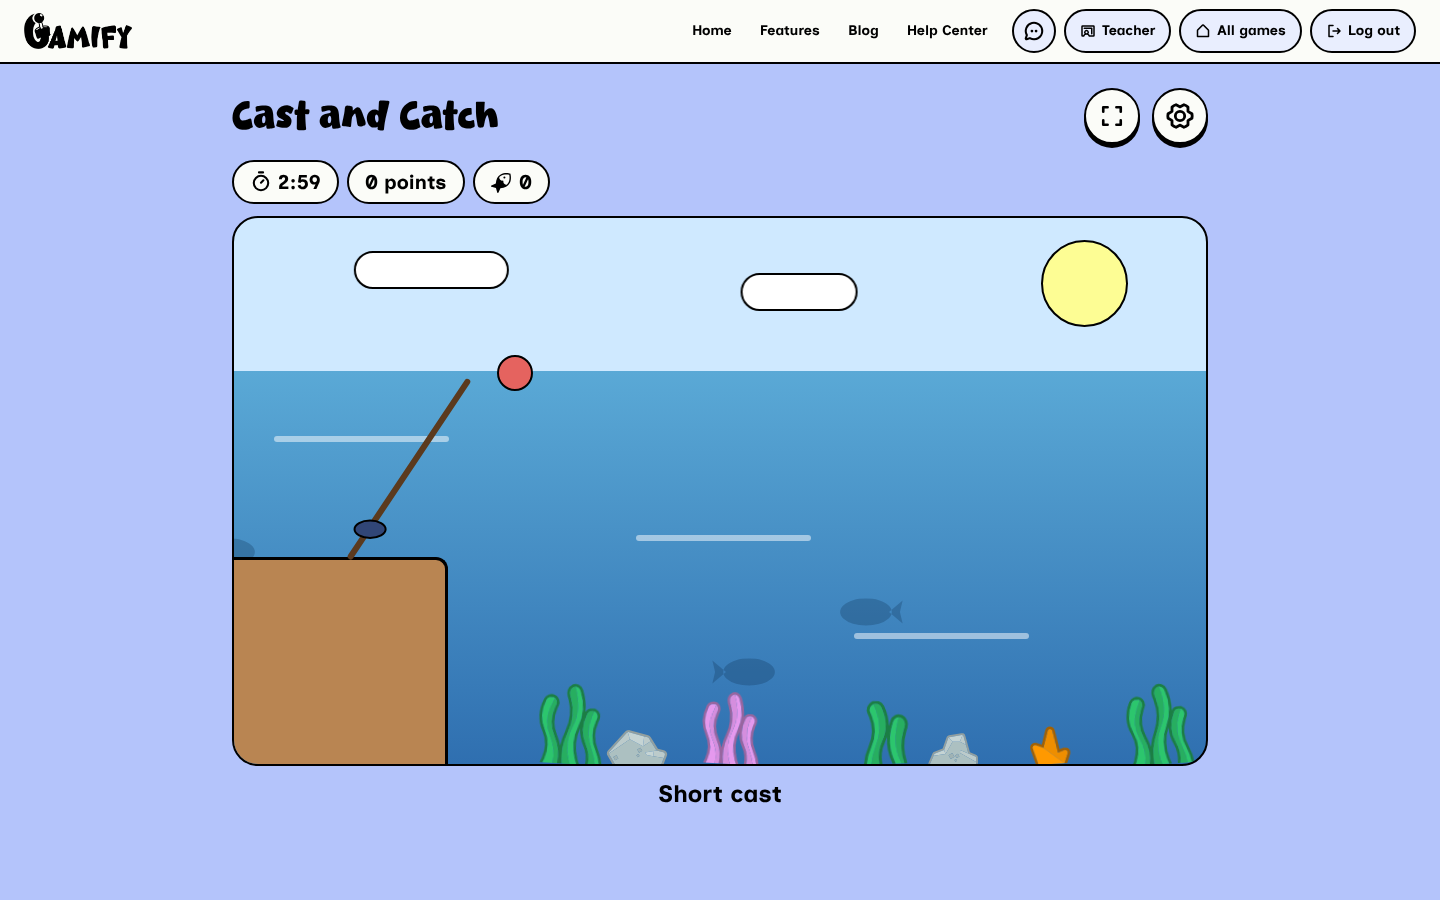
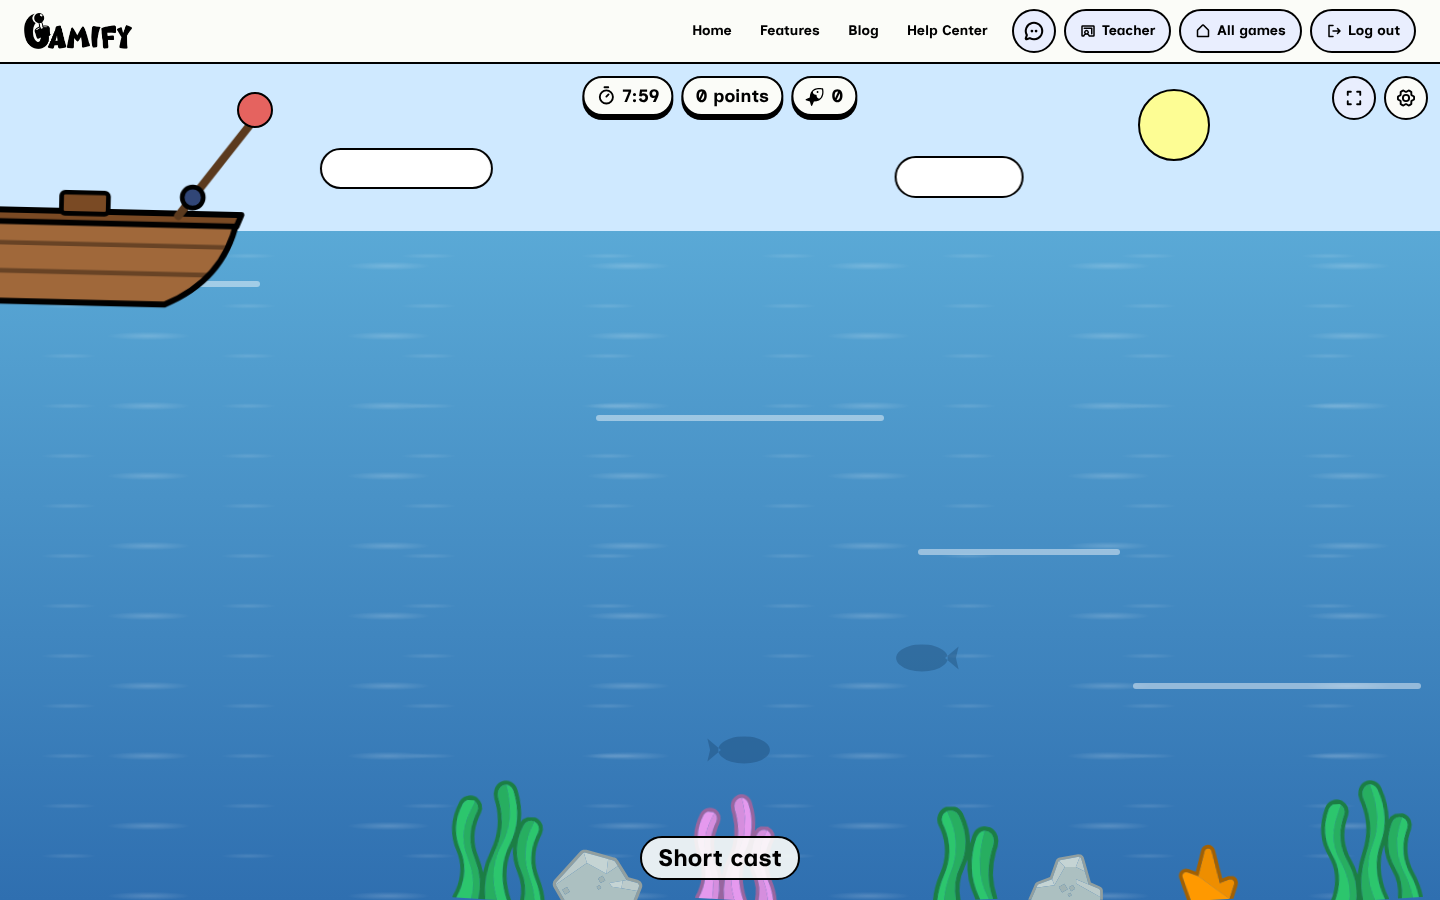
Cast and Catch fills the whole space under the menu bar (and the whole screen in full screen) with small controls on top of the scene; roomier setup boxes; fishing time 1 to 20 minutes, default 8
Claude-Session: https://claude.ai/code/session_01APER8wtnDZSnzGLifX9o6w

diff --git a/src/games/cast-catch/CastCatch.tsx b/src/games/cast-catch/CastCatch.tsx
@@ -1,4 +1,3 @@
-import Title from '../../ui/Title';
 import { useEffect, useMemo, useRef, useState } from 'react';
 import { AnimatePresence, motion } from 'motion/react';
 import confetti from 'canvas-confetti';
@@ -11,7 +10,7 @@ import { getLive } from '../../live/session';
 import { usePlayClock } from '../../engine/playClock';
 import { useAsk } from '../../engine/useAsk';
 import { t } from '../../i18n';
-import { GameTopRow, SettingsPanel } from '../../settings/SettingsPanel';
+import { FullScreenButton, GameTopRow, GearButton, SettingsPanel } from '../../settings/SettingsPanel';
 import { useSettings } from '../../settings/SettingsContext';
 import { useGamePool } from '../../student/session';
 import { pieceColor, pieceFill, pieceImage } from '../../theme/library';
@@ -78,7 +77,7 @@ export default function CastCatch() {
   async function openLive() { navigate(`/teacher/live/${(await makeGameCode('cast-catch', setId, 'live')).code}`); }
   const { value: mine = [] } = useMySets();
   const sets = useMemo(() => [...mine, ...LIBRARY], [mine]);
-  const [setup, change] = useSavedSetup('cast-catch', { setId: LIBRARY[0].id, minutes: 3 });
+  const [setup, change] = useSavedSetup('cast-catch', { setId: LIBRARY[0].id, minutes: 8 });
   const setId = sets.some((s) => s.id === setup.setId) ? setup.setId : LIBRARY[0].id;
   const picked = useMemo(() => sets.filter((s) => s.id === setId).map((set) => ({ set, starred: false })), [sets, setId]);
   const game = useGamePool(picked);
@@ -203,12 +202,12 @@ export default function CastCatch() {
 
   return (
     <ThemedPage theme={theme} menu={phase !== 'play' && phase !== 'end'}>
-    <main className="max-w-5xl mx-auto px-4 sm:px-6 pt-6 pb-6">
+    <main className={(phase === 'play' || phase === 'end') ? '!p-0' : 'max-w-5xl mx-auto px-4 sm:px-6 pt-6 pb-6'}>
       <SettingsPanel open={settingsOpen} onClose={() => setSettingsOpen(false)} context="cast-catch" />
       {clock.element}
-      <GameTopRow onSettings={() => setSettingsOpen(true)}>
-        {(phase === 'play' || phase === 'end') && <h1 className="title-bubble text-3xl sm:text-4xl"><Title text={castCatchManifest.name} /></h1>}
-      </GameTopRow>
+      {(phase === 'play' || phase === 'end')
+        ? <h1 className="sr-only">{castCatchManifest.name}</h1>
+        : <GameTopRow onSettings={() => setSettingsOpen(true)} />}
 
       {phase === 'welcome' && (
         <GameWelcome game={castCatchManifest} cover={pieceImage(theme, 'cover')} onStart={() => setPhase(themes.length > 1 ? 'theme' : 'setup')} steps={[
@@ -223,26 +222,22 @@ export default function CastCatch() {
           // Pick the way to play first (teacher, 2026-10-31): Live opens a class lobby.
           ...(!teacher ? [] : [{ id: 'way', title: t('way.title'), content: <WayToPlay modes={['live', 'solo']} value={way} onChange={setWay} /> }]),
           ...(game.assigned ? [] : [{ id: 'questions', title: t('setup.questions'), content: <SetPicker sets={sets} value={[setId]} onChange={(ids) => change({ setId: ids[0] })} /> }]),
-          { id: 'options', title: t('setup.options'), content: <Slider label={t('cc.minutes')} hint={t('cc.minutesHint')} min={1} max={10} value={setup.minutes} show={(v) => t('cc.minutesValue', { count: v })} onChange={(v) => change({ minutes: v })} /> },
+          { id: 'options', title: t('setup.options'), content: <Slider label={t('cc.minutes')} hint={t('cc.minutesHint')} min={1} max={20} value={setup.minutes} show={(v) => t('cc.minutesValue', { count: v })} onChange={(v) => change({ minutes: v })} /> },
         ]} />
       )}
 
       {(phase === 'play' || phase === 'end') && (
-        <section className="grid gap-3">
-          <div className="flex items-center gap-2 flex-wrap">
-            <span className="inline-flex items-center gap-1.5 bg-surface border-[2.5px] border-border rounded-pill px-4 min-h-11 font-display text-xl tabular-nums" aria-label={t('cc.timeLeft', { s: left })}><Timer weight="bold" size={22} />{Math.floor(left / 60)}:{String(left % 60).padStart(2, '0')}</span>
-            <span className="inline-flex items-center gap-1.5 bg-surface border-[2.5px] border-border rounded-pill px-4 min-h-11 font-display text-xl tabular-nums" aria-label={t('cc.points', { count: score })}>{score} {t('cc.pts')}</span>
-            <span className="inline-flex items-center gap-1.5 bg-surface border-[2.5px] border-border rounded-pill px-4 min-h-11 font-display text-xl" aria-label={t('cc.caught', { count: catches.length })}><FishIcon weight="fill" size={22} />{catches.length}</span>
-          </div>
-
-          <div ref={scene} className="relative overflow-hidden rounded-panel border-[2.5px] border-border select-none" style={{ height: 'calc(100dvh - 21.875rem + var(--chrome-save, 0rem))', minHeight: 220, ...(theme.pieces.background?.image ? pieceFill(theme, 'background', '#5aa9d6') : { background: 'linear-gradient(180deg, #cfe9ff 0%, #cfe9ff 20%, #5aa9d6 20%, #2f6fb0 100%)' }) }}>
+        // The game fills the whole space, the same in full screen and not;
+        // small controls sit on top of the scene (teacher, 2026-10-31).
+        <section className="relative play-fill">
+          <div ref={scene} className="relative overflow-hidden select-none h-full" style={{ ...(theme.pieces.background?.image ? pieceFill(theme, 'background', '#5aa9d6') : { background: 'linear-gradient(180deg, #cfe9ff 0%, #cfe9ff 20%, #5aa9d6 20%, #2f6fb0 100%)' }) }}>
             {/* The water moves a little (teacher, 2026-10-31): soft ripples drift and the shimmer lines glide. */}
             {!theme.pieces.background?.image && <span className="absolute inset-x-0 bottom-0 top-[20%] pointer-events-none cc-water" aria-hidden="true" />}
             {!still && [0, 1, 2, 3].map((i) => (
               <span key={i} className="absolute h-1.5 rounded-pill bg-white/45" style={{ top: `${26 + i * 16}%`, width: `${14 + (i % 2) * 6}%`, animation: `cc-swim-right ${9 + i * 3}s linear ${-i * 4}s infinite` }} aria-hidden="true" />
             ))}
-            <span className="absolute right-[8%] top-[2%] w-[6%] aspect-square rounded-full border-[2.5px] border-border" style={pieceFill(theme, 'sun', '#fdfd94')} aria-hidden="true" />
-            {[[30, 3, 14], [60, 6, 10]].map(([x, y, w], i) => (
+            <span className="absolute right-[16%] top-[3%] w-[5%] aspect-square rounded-full border-[2.5px] border-border" style={pieceFill(theme, 'sun', '#fdfd94')} aria-hidden="true" />
+            {[[22, 10, 12], [62, 11, 9]].map(([x, y, w], i) => (
               <span key={`c${i}`} className={`absolute h-[5%] ${pieceImage(theme, 'cloud') ? '' : 'rounded-pill border-[2px] border-border'}`} style={{ left: `${x}%`, top: `${y}%`, width: `${w}%`, ...(pieceImage(theme, 'cloud') ? { background: `center / contain no-repeat url("${pieceImage(theme, 'cloud')}")` } : { background: pieceColor(theme, 'cloud', '#ffffff') }), animation: still ? undefined : `cc-drift ${18 + i * 6}s ease-in-out infinite` }} aria-hidden="true" />
             ))}
             {!still && [0, 1, 2].map((i) => (
@@ -284,7 +279,7 @@ export default function CastCatch() {
             )}
             <AnimatePresence>
               {last && (
-                <motion.div key={catches.length} className="absolute inset-x-0 top-[8%] mx-auto w-[min(90%,420px)] bg-surface border-[3px] border-border rounded-panel p-4 grid gap-1 justify-items-center text-center"
+                <motion.div key={catches.length} className="absolute inset-x-0 top-[14%] mx-auto w-[min(90%,420px)] bg-surface border-[3px] border-border rounded-panel p-4 grid gap-1 justify-items-center text-center"
                   style={{ boxShadow: 'var(--shadow-sticker-lg)' }} initial={still ? false : { y: 120, scale: 0.6, rotate: -8 }} animate={{ y: 0, scale: 1, rotate: 0 }} exit={{ opacity: 0 }} role="status">
                   {last.item ? (
                     <>
@@ -305,8 +300,18 @@ export default function CastCatch() {
             </AnimatePresence>
           </div>
 
+          {/* Top: score chips in the middle, full screen and settings on the right. */}
+          <div className="absolute top-3 left-1/2 -translate-x-1/2 flex items-center gap-2 z-10">
+            <span className="inline-flex items-center gap-1.5 bg-surface border-[2px] border-border rounded-pill px-3 min-h-10 font-display text-lg tabular-nums" style={{ boxShadow: 'var(--shadow-sticker)' }} aria-label={t('cc.timeLeft', { s: left })}><Timer weight="bold" size={20} />{Math.floor(left / 60)}:{String(left % 60).padStart(2, '0')}</span>
+            <span className="inline-flex items-center gap-1.5 bg-surface border-[2px] border-border rounded-pill px-3 min-h-10 font-display text-lg tabular-nums" style={{ boxShadow: 'var(--shadow-sticker)' }} aria-label={t('cc.points', { count: score })}>{score} {t('cc.pts')}</span>
+            <span className="inline-flex items-center gap-1.5 bg-surface border-[2px] border-border rounded-pill px-3 min-h-10 font-display text-lg" style={{ boxShadow: 'var(--shadow-sticker)' }} aria-label={t('cc.caught', { count: catches.length })}><FishIcon weight="fill" size={20} />{catches.length}</span>
+          </div>
+          <div className="absolute top-3 right-3 flex items-center gap-2 z-10 [&_button]:!w-11 [&_button]:!h-11">
+            <FullScreenButton small />
+            <GearButton small onClick={() => setSettingsOpen(true)} />
+          </div>
           {phase === 'play' && (
-            <div className="grid gap-2 justify-items-center min-h-24">
+            <div className="absolute inset-x-0 bottom-5 grid gap-2 justify-items-center z-10 pointer-events-none [&>*]:pointer-events-auto">
               {step === 'ready' && !timeUp && <BigButton onClick={startPower} label={t('cc.cast')} />}
               {step === 'power' && (
                 <>
@@ -316,10 +321,10 @@ export default function CastCatch() {
                   <BigButton onClick={() => void stopPower()} label={t('cc.stop')} />
                 </>
               )}
-              {step === 'casting' && <p className="font-display text-2xl stage-text" role="status">{qualityWord[quality.current]}</p>}
-              {step === 'wait' && <p className="font-display text-2xl stage-text" role="status">{t('cc.waiting')}</p>}
+              {step === 'casting' && <p className="font-display text-2xl px-4 py-1 rounded-pill bg-surface/90 border-[2px] border-border" role="status">{qualityWord[quality.current]}</p>}
+              {step === 'wait' && <p className="font-display text-2xl px-4 py-1 rounded-pill bg-surface/90 border-[2px] border-border" role="status">{t('cc.waiting')}</p>}
               {step === 'bite' && <BigButton onClick={reel} label={t('cc.reel')} pulse={!still} />}
-              {timeUp && step === 'ready' && <p className="font-display text-2xl stage-text">{t('cc.timeUp')}</p>}
+              {timeUp && step === 'ready' && <p className="font-display text-2xl px-4 py-1 rounded-pill bg-surface/90 border-[2px] border-border">{t('cc.timeUp')}</p>}
             </div>
           )}
         </section>
@@ -344,7 +349,7 @@ export default function CastCatch() {
 function BigButton({ onClick, label, pulse = false }: { onClick: () => void; label: string; pulse?: boolean }) {
   return (
     <motion.button type="button" onClick={onClick} animate={pulse ? { scale: [1, 1.06, 1] } : undefined} transition={{ duration: 0.8, repeat: Infinity }}
-      className="min-h-16 px-12 rounded-pill border-[2.5px] border-border bg-accent font-display text-3xl active:scale-95" style={{ boxShadow: 'var(--shadow-sticker)' }}>
+      className="min-h-14 px-10 rounded-pill border-[2.5px] border-border bg-accent font-display text-2xl active:scale-95" style={{ boxShadow: 'var(--shadow-sticker)' }}>
       {label}
     </motion.button>
   );

diff --git a/src/games/SetupWizard.tsx b/src/games/SetupWizard.tsx
@@ -13,27 +13,29 @@ export default function SetupWizard({ pages, onBack, onPlay, playLabel }: { page
   const last = i === pages.length - 1;
   return (
     <div className="grid content-center" style={{ minHeight: 'calc(100dvh - 11.875rem)' }}>
-    <section className="bg-surface border-[2.5px] border-border rounded-panel max-w-3xl mx-auto flex flex-col overflow-hidden" style={{ boxShadow: 'var(--shadow-sticker-lg)', maxHeight: 'calc(100dvh - 11.875rem)' }}>
-      <div className="px-5 pt-4 pb-3 border-b-[2px] border-border-soft grid gap-2">
+    {/* Roomy, never cramped (teacher, 2026-10-31): full width up to a big
+        card, a generous minimum height, larger text and controls. */}
+    <section className="setup-roomy w-full bg-surface border-[2.5px] border-border rounded-panel max-w-3xl mx-auto flex flex-col overflow-hidden" style={{ boxShadow: 'var(--shadow-sticker-lg)', maxHeight: 'calc(100dvh - 11.875rem)', minHeight: 'min(30rem, calc(100dvh - 11.875rem))' }}>
+      <div className="px-6 sm:px-8 pt-5 pb-4 border-b-[2px] border-border-soft grid gap-3">
         <ol className="flex gap-1.5 list-none p-0 m-0" aria-label={t('setup.steps')}>
           {pages.map((p, k) => (
             <li key={p.id} className="flex-1">
               <button type="button" onClick={() => setI(k)} disabled={k > i && pages.slice(i, k).some((x) => x.ready === false)}
                 aria-current={k === i ? 'step' : undefined} aria-label={t('setup.stepOf', { n: k + 1, total: pages.length, title: p.title })}
-                className={`w-full h-2.5 rounded-pill border border-border ${k <= i ? 'bg-accent' : 'bg-surface-2'}`} />
+                className={`w-full h-3 rounded-pill border border-border ${k <= i ? 'bg-accent' : 'bg-surface-2'}`} />
             </li>
           ))}
         </ol>
-        <h2 className="font-display text-2xl font-bold"><Title text={t('setup.stepTitle', { n: i + 1, total: pages.length, title: page.title })} /></h2>
+        <h2 className="font-display text-3xl font-bold"><Title text={t('setup.stepTitle', { n: i + 1, total: pages.length, title: page.title })} /></h2>
       </div>
-      <div className="px-5 py-4 grid gap-4 content-start overflow-y-auto min-h-0 flex-1">{page.content}</div>
-      <div className="px-5 py-3 border-t-[2px] border-border-soft flex justify-between gap-2">
+      <div className="px-6 sm:px-8 py-6 grid gap-6 content-start overflow-y-auto min-h-0 flex-1 text-lg">{page.content}</div>
+      <div className="px-6 sm:px-8 py-4 border-t-[2px] border-border-soft flex justify-between gap-2">
         <button type="button" onClick={() => (i === 0 ? onBack() : setI(i - 1))}
-          className="min-h-12 px-5 rounded-pill border-[2px] border-border bg-surface-2 font-bold inline-flex items-center gap-2">
+          className="min-h-14 px-6 rounded-pill border-[2px] border-border bg-surface-2 font-bold text-lg inline-flex items-center gap-2">
           <ArrowLeft weight="bold" size={20} />{t('setup.back')}
         </button>
         <button type="button" disabled={page.ready === false} onClick={() => (last ? onPlay() : setI(i + 1))}
-          className="min-h-12 px-6 rounded-pill border-[2.5px] border-border bg-accent font-display text-xl font-bold inline-flex items-center gap-2 disabled:opacity-50">
+          className="min-h-14 px-8 rounded-pill border-[2.5px] border-border bg-accent font-display text-2xl font-bold inline-flex items-center gap-2 disabled:opacity-50">
           {last ? <><Play weight="fill" size={22} />{playLabel ?? t('start.play')}</> : <>{t('setup.next')}<ArrowRight weight="bold" size={20} /></>}
         </button>
       </div>

diff --git a/src/index.css b/src/index.css
@@ -349,3 +349,14 @@ html[data-motion="still"] :is(.fw-bob, .fw-hop, .fw-twinkle, .fw-flash, .fw-nudg
   --color-accent-ink: #000000;
   --stage-bg-text: var(--text);
 }
+
+/* Setup pages: bigger sliders and hint text (teacher, 2026-10-31). */
+.setup-roomy .gamify-slider { height: 18px; margin: 0.75rem 0; }
+.setup-roomy .gamify-slider::-webkit-slider-thumb { width: 44px; height: 44px; }
+.setup-roomy .gamify-slider::-moz-range-thumb { width: 42px; height: 42px; }
+.setup-roomy label { font-size: 1.125rem; }
+
+/* A game that fills the whole space under the menu bar, and the whole
+   screen in full screen: the same view either way (teacher, 2026-10-31). */
+.play-fill { height: calc(100dvh - 4rem); }
+html:fullscreen .play-fill { height: 100dvh; }

diff --git a/src/i18n/en.ts b/src/i18n/en.ts
@@ -2038,7 +2038,7 @@ export const en = {
   'cc.how2': 'Answer the question while your bobber floats.',
   'cc.how3': 'Reel in your fish. Better casts catch rarer fish!',
   'cc.minutes': 'Fishing time',
-  'cc.minutesHint': 'How long the fishing trip lasts. Default 3 minutes.',
+  'cc.minutesHint': 'How long the fishing trip lasts, 1 to 20 minutes. Default 8 minutes.',
   'cc.minutesValue': '{count} minutes',
   'cc.minutesValue.one': '1 minute',
   'cc.timeLeft': '{s} seconds left',
